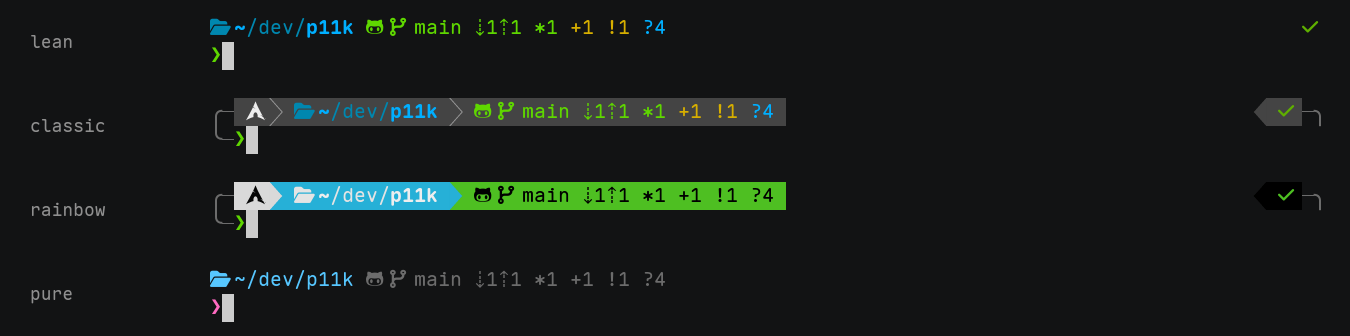
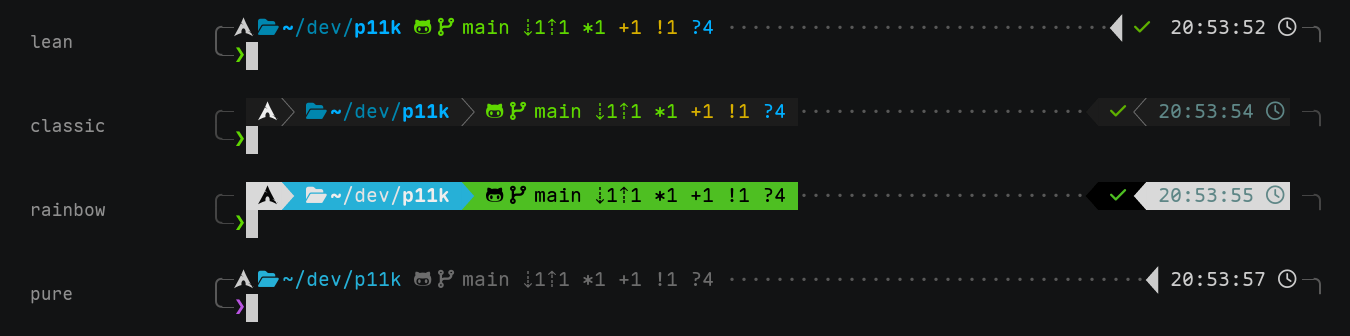
docs: show the four presets in one layout
The presets image put each preset's own layout next to the others, which made
the panes hard to compare: lean and pure are single-line and unframed, so it
read as four different prompts rather than as one prompt in four palettes.

The panes now share the demo theme's layout — frame, separators, dotted
filler, right column with the clock — and differ only in colour. A preset
carries a layout of its own, so tools/demo/presets/*.kdl are that layout with
each preset's colours, taken from presets.rs and named in the file header. A
segment a preset does not define has no colour there either, which the README
states next to the image.

diff --git a/README.zh.md b/README.zh.md
@@ -43,7 +43,11 @@ nix run github:Qaaxaap/powerlevel11k -- --shell zsh   # 不安装、不配置
 
 `--preset lean|classic|rainbow|pure` 可以不用写配置就选定起点，`p11k configure`
 则像 p10k 的向导那样逐项询问并写出 KDL。四者都是普通主题，其中任何内容都可
-以改：
+以改。
+
+下图为四套配色，统一使用演示主题的布局以便对比：preset 本身也带着自己的布局，
+lean 与 pure 是单行、无边框。颜色取自各自的 preset；preset 未定义的段则沿用
+终端的默认颜色。
 
 ![lean、classic、rainbow、pure](docs/images/presets.png)
 
@@ -227,7 +231,8 @@ export GITSTATUS_DAEMON=/path/to/p11k-d
 未暂存、未跟踪与 stash 各一处），再在固定尺寸的 pty 中运行引擎，录下终端本来
 会显示的内容。镜头脚本是
 [`tools/demo/scenes/demo.json`](tools/demo/scenes/demo.json)（一串带延时的按键），
-主题是 [`tools/demo/demo.kdl`](tools/demo/demo.kdl)。重新生成需要已构建的
+主题是 [`tools/demo/demo.kdl`](tools/demo/demo.kdl)，presets 图的四份文件在
+[`tools/demo/presets/`](tools/demo/presets)。重新生成需要已构建的
 `p11k`，以及 `zsh`、`bash`、`fish`、`python3`、`tmux`、`agg`、ImageMagick，
 以及图中使用的 Maple Mono Nerd Font。
 

diff --git a/README.md b/README.md
@@ -50,7 +50,12 @@ records it does not have pwsh installed.
 `--preset lean|classic|rainbow|pure` picks a starting point without writing a
 config, and `p11k configure` walks through the same choices as p10k's wizard and
 writes out the KDL. All four are ordinary themes — anything in them can be
-edited:
+edited.
+
+The four palettes, each in the demo theme's layout so that they can be compared:
+a preset carries its own layout as well, and lean and pure are single-line and
+unframed. The colours are the presets' own; a segment a preset does not define is
+left to the terminal.
 
 ![lean, classic, rainbow and pure](docs/images/presets.png)
 
@@ -264,7 +269,9 @@ stashed change, runs the engine in a pty of a fixed size, and records what the
 terminal would have shown. The scene is
 [`tools/demo/scenes/demo.json`](tools/demo/scenes/demo.json) — a list of
 keystrokes with delays, and the theme is
-[`tools/demo/demo.kdl`](tools/demo/demo.kdl). Re-running it needs a built
+[`tools/demo/demo.kdl`](tools/demo/demo.kdl), and
+[`tools/demo/presets/`](tools/demo/presets) holds the four files behind the
+presets image. Re-running it needs a built
 `p11k`, `zsh`, `bash`, `fish`, `python3`, `tmux`, `agg`, ImageMagick, and the
 Maple Mono Nerd Font the images are set in.
 
